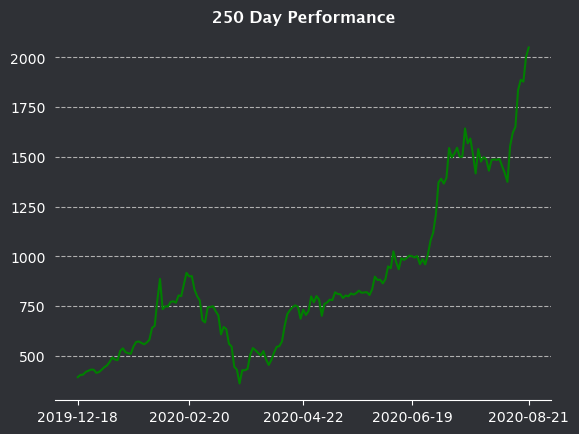
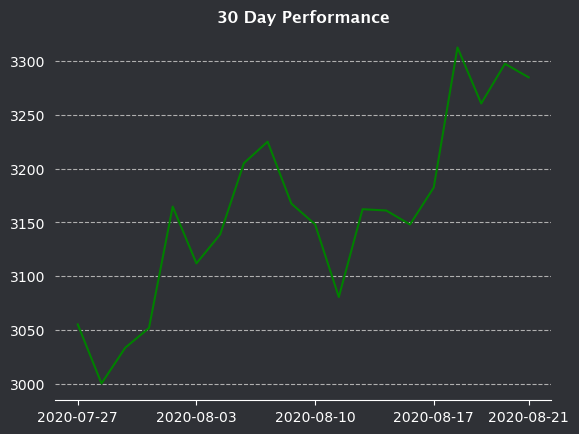
Added search for stock

diff --git a/cogs/StockInfo.py b/cogs/StockInfo.py
@@ -14,7 +14,7 @@ class StockInfo(commands.Cog):
 
         requestedStock = Stocks(stock)
 
-        Graph(requestedStock, 250).create_graph()
+        Graph(requestedStock, 30).create_graph()
 
         # Change colour of embed depending on performance
         try: 
@@ -135,10 +135,10 @@ class Graph():
             else:
                 return day.replace('0', '')
 
-        def reformat_date(date):
-            day = remove_zero(date[8:10])
-            month = months[int(remove_zero(date[5:7]))-1]
-            return f"{day} {month}"
+        # def reformat_date(date):
+        #     day = remove_zero(date[8:10])
+        #     month = months[int(remove_zero(date[5:7]))-1]
+        #     return f"{day} {month}"
 
         closing_prices = closing_prices[::-1]
         price_dates = price_dates[::-1]
